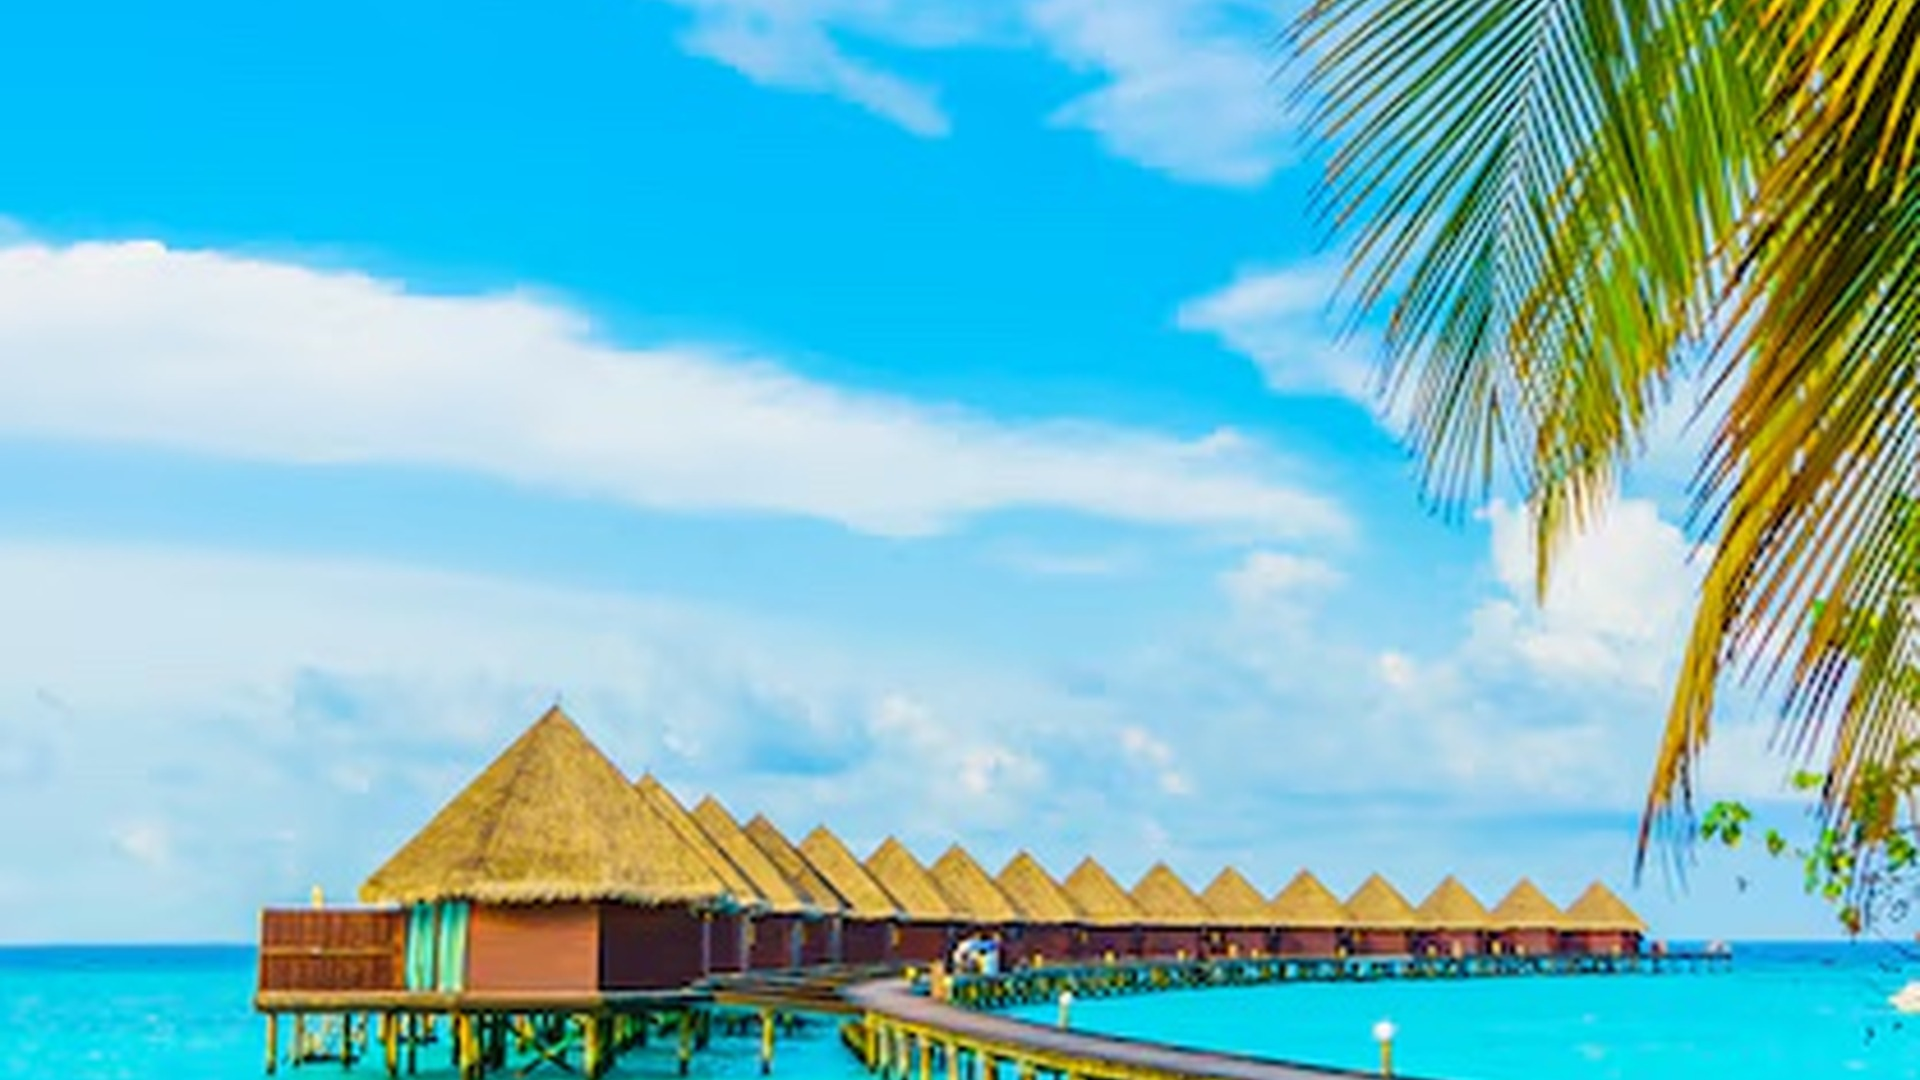
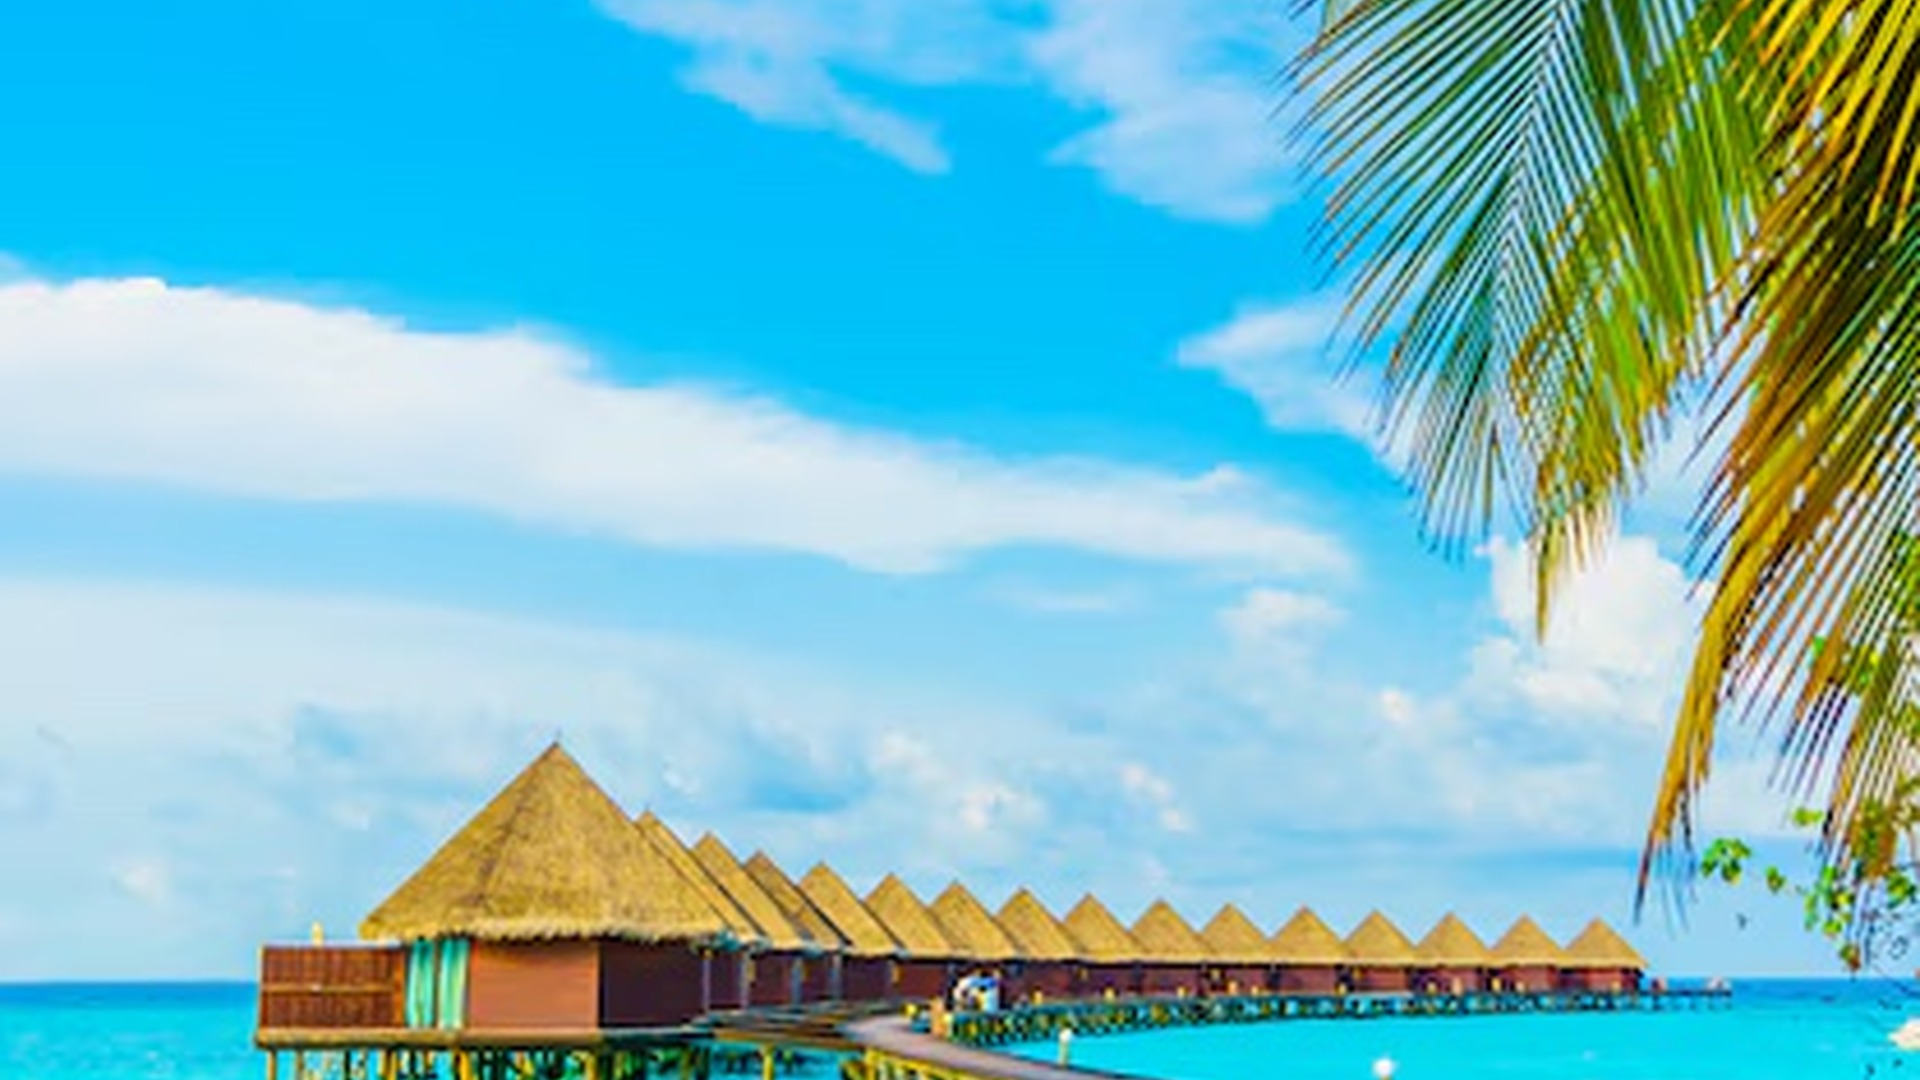
Add files via upload

diff --git a/styles.css b/styles.css
@@ -709,7 +709,7 @@ body.rtl .admin-dashboard aside button{text-align:right}
   width: 100%;
   height: 100%;
   object-fit: cover;
-  object-position: center center;
+  object-position: center 60%;
   filter: saturate(1.05) brightness(.88);
   display: block;
 }